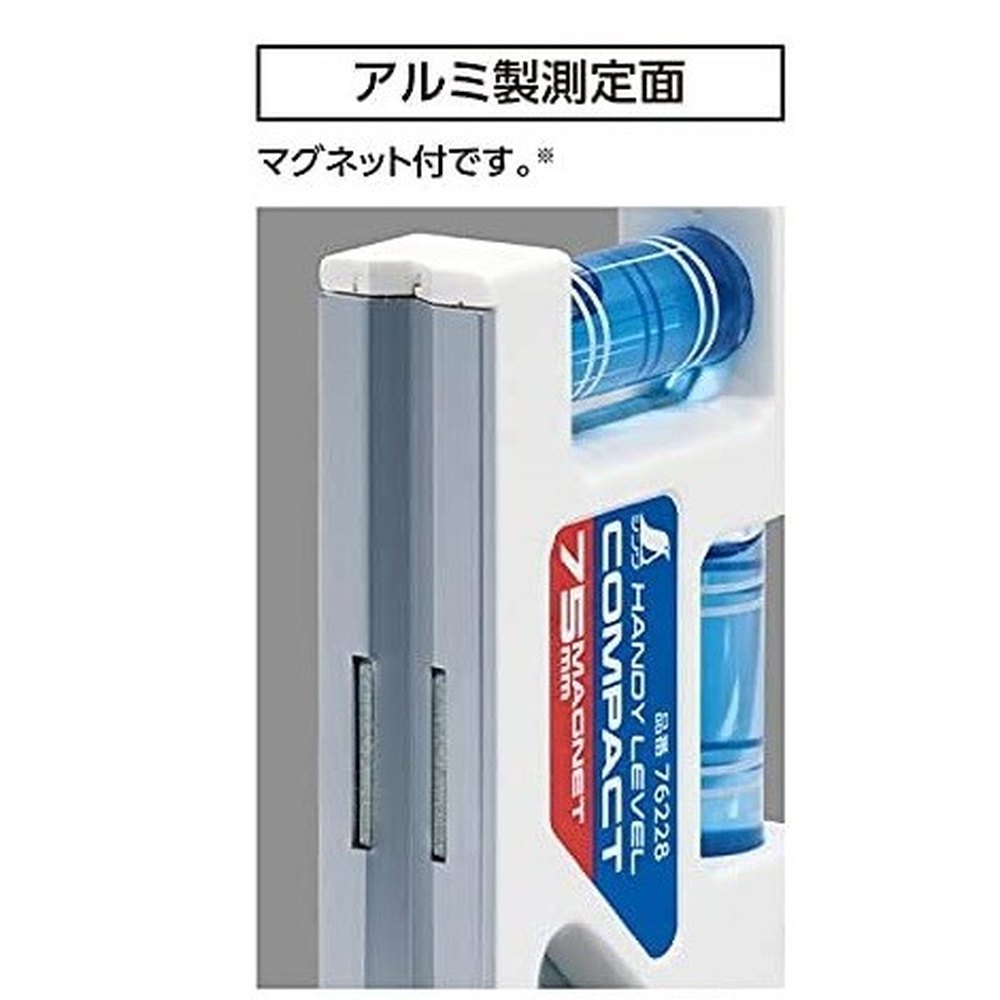
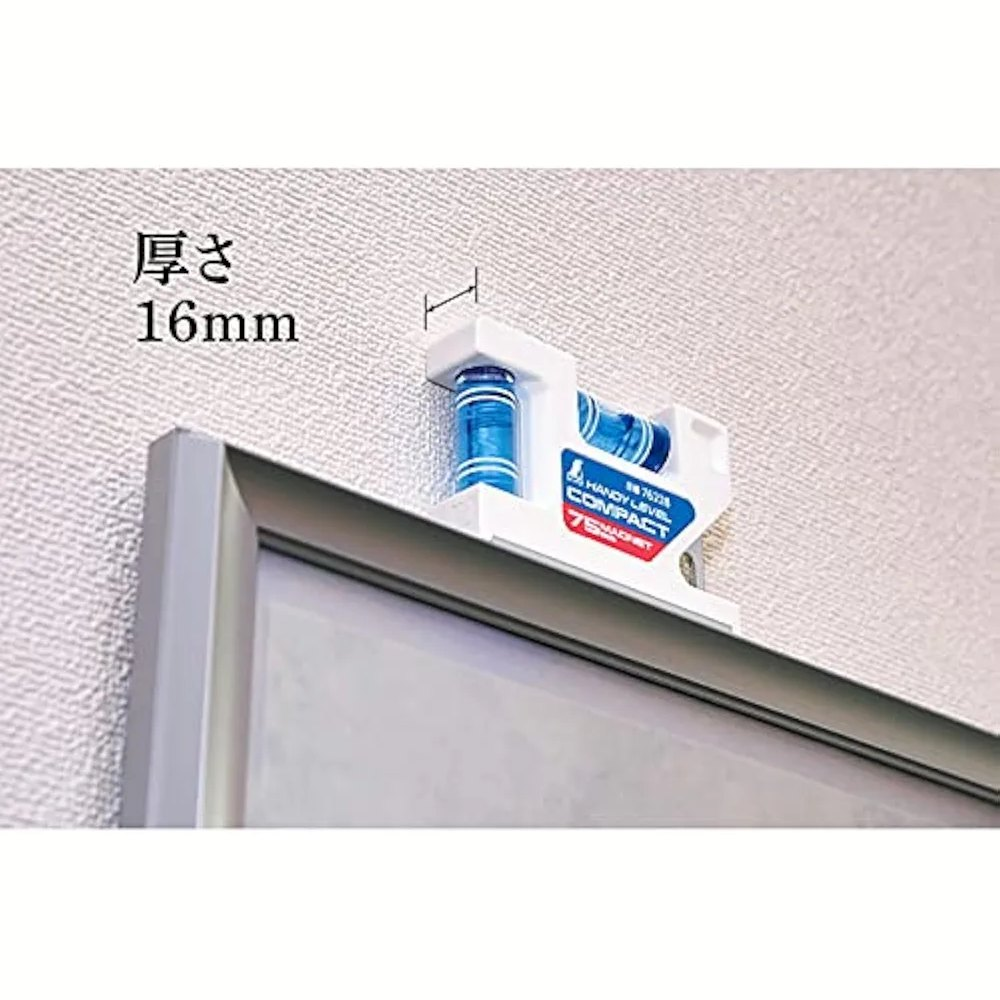
Угольник Shinwa 10037 и уровень Shinwa 76228: новые фото и галереи
Claude-Session: https://claude.ai/code/session_01W4avutKNUGmcmKZD7QC8Qv

diff --git a/site/js/data.js b/site/js/data.js
@@ -5,7 +5,7 @@
 const T = (lv, en, ru) => ({ lv, en, ru });
 
 const SHOP = {
-  ver: '202610271958', // менять при замене фото — браузеры загрузят новые картинки
+  ver: '202610272005', // менять при замене фото — браузеры загрузят новые картинки
   company: 'SIA „Baltic Investments”',          // юр. лицо — показывается только в подвале и на юр. страницах
   regNo: '50103714581',
   legalAddress: 'Ernesta Birznieka-Upīša iela 20B-8, Rīga, LV-1050',
@@ -494,7 +494,7 @@ const PRODUCTS = [
             '«Сумицукэ» у японских плотников — это разметка, первый и самый важный шаг работы.'),
    gallery: [ ['img/21-a.jpg', T('Iepakojums','Package','Упаковка')] ] },
 
- { id:'22', cat:'all', brand:'Shinwa', tag:'jp', model:'12103', price:16, art:'square', c:[190,190,180], img:'',
+ { id:'22', cat:'all', brand:'Shinwa', tag:'jp', model:'10037', price:16, art:'square', c:[190,190,180], img:'img/22.png',
    name: T('Mini stūrenis Shinwa 15 × 7 cm', 'Shinwa mini square 15 × 7 cm', 'Мини-угольник Shinwa 15 × 7 см'),
    hook: T('Īsts japāņu galdnieka stūrenis — kabatas izmērā.', 'A real Japanese carpenter\'s square — pocket-sized.', 'Настоящий японский плотницкий угольник — карманного размера.'),
    desc: T('Viegls nerūsējošā tērauda stūrenis maziem darbiem: piegriešanai, flīzēm, mēbelēm un furnitūrai. Skala abās pusēs. Plāns un viegls — ielien kabatā blakus zīmulim.',
@@ -503,19 +503,17 @@ const PRODUCTS = [
    why: [ [T('Kabatā','In a pocket','В кармане'), T('15 × 7 cm — vienmēr līdzi.','15 × 7 cm — always with you.','15 × 7 см — всегда с собой.')],
           [T('Divas puses','Two sides','Две стороны'), T('Skala abās pusēs.','A scale on both sides.','Шкала с обеих сторон.')],
           [T('Nerūsē','Rust-free','Не ржавеет'), T('Nerūsējošais tērauds.','Stainless steel.','Нержавеющая сталь.')] ],
-   specs: [ [T('Modelis','Model','Модель'), T('Shinwa 12103','Shinwa 12103','Shinwa 12103')],
-            [T('Skala','Scale','Шкала'), T('15 cm × 7 cm, abās pusēs','15 cm × 7 cm, both sides','15 см × 7 см, с обеих сторон')],
-            [T('Materiāls','Material','Материал'), T('nerūsējošais tērauds','stainless steel','нержавеющая сталь')],
+   specs: [ [T('Modelis','Model','Модель'), T('Shinwa 10037','Shinwa 10037','Shinwa 10037')],
+            [T('Skala','Scale','Шкала'), T('priekšā cm (15 × 7), aizmugurē japāņu sun','front: cm (15 × 7), back: Japanese sun','спереди см (15 × 7), сзади японские сун')],
+            [T('Materiāls','Material','Материал'), T('rūdīts nerūsējošais tērauds','hardened stainless steel','закалённая нержавеющая сталь')],
             [T('Zīmols','Brand','Бренд'), T('Shinwa, Japāna','Shinwa, Japan','Shinwa, Япония')] ],
    story: T('Shinwa no Niigatas specializējas mērinstrumentos — lineālos, stūreņos un līmeņrāžos, ar kuriem strādā japāņu galdnieki.',
             'Shinwa from Niigata specialises in measuring tools — the rules, squares and levels Japanese carpenters work with.',
             'Shinwa из Ниигаты специализируется на измерительном инструменте — линейки, угольники и уровни, которыми работают японские плотники.'),
-   gallery: [ ['img/22-a.jpg', T('Uz dēļa','On a board','На доске')],
-              ['img/22-b.jpg', T('Otrā puse','The other side','Обратная сторона')],
-              ['img/22-c.jpg', T('Nerūsējošais tērauds','Stainless steel','Нержавеющая сталь')],
-              ['img/22-d.jpg', T('Skala abās pusēs','Scale on both sides','Шкала с двух сторон')] ] },
+   gallery: [ ['img/22-a.jpg', T('Aizmugure: japāņu skala','Back: Japanese scale','Обратная сторона: японская шкала')],
+              ['img/22-b.jpg', T('Abu pušu skalas','Scales on both sides','Шкалы обеих сторон')] ] },
 
- { id:'23', cat:'all', brand:'Shinwa', tag:'jp', model:'76228', price:18, art:'level', c:[60,120,190], img:'',
+ { id:'23', cat:'all', brand:'Shinwa', tag:'jp', model:'76228', price:18, art:'level', c:[60,120,190], img:'img/23.jpg', cover:true,
    name: T('Magnētisks mini līmeņrādis 75 mm', 'Magnetic mini level 75 mm', 'Магнитный мини-уровень 75 мм'),
    hook: T('Pielīp pie profila un parāda līmeni, kamēr rokas ir brīvas.', 'Sticks to a profile and shows level while your hands stay free.', 'Прилип к профилю и показывает уровень, пока руки свободны.'),
    desc: T('Tikai 75 mm garš līmeņrādis ar magnētu: pielīp pie metāla profila, caurules, radiatora vai kronšteina. Ērts, kur garais līmeņrādis neietilpst — skapīšos, nišās, pie rozetēm un plauktiem. Ielien jebkurā kabatā.',
@@ -532,7 +530,8 @@ const PRODUCTS = [
    story: T('Shinwa ir japāņu mērinstrumentu ražotājs no Niigatas. Handy Level ir viņu mazākais līmeņrādis — tam, kas vienmēr kabatā.',
             'Shinwa is a Japanese maker of measuring tools from Niigata. The Handy Level is their smallest level — the one that is always in your pocket.',
             'Shinwa — японский производитель измерительного инструмента из Ниигаты. Handy Level — их самый маленький уровень, тот, что всегда в кармане.'),
-   gallery: [ ['img/23-a.jpg', T('Alumīnija mērvirsma ar magnētu','Aluminium face with magnet','Алюминиевая рабочая грань с магнитом')] ] }
+   gallery: [ ['img/23-a.jpg', T('Biezums tikai 16 mm','Only 16 mm thick','Толщина всего 16 мм')],
+              ['img/23-b.jpg', T('Iepakojums: magnēts, ±1,0 mm/m','Package: magnet, ±1.0 mm/m','Упаковка: магнит, ±1,0 мм/м')] ] }
 ];
 
 const VIDEOS = [ // src — ссылка на YouTube embed (https://www.youtube-nocookie.com/embed/ID); пусто — заглушка
